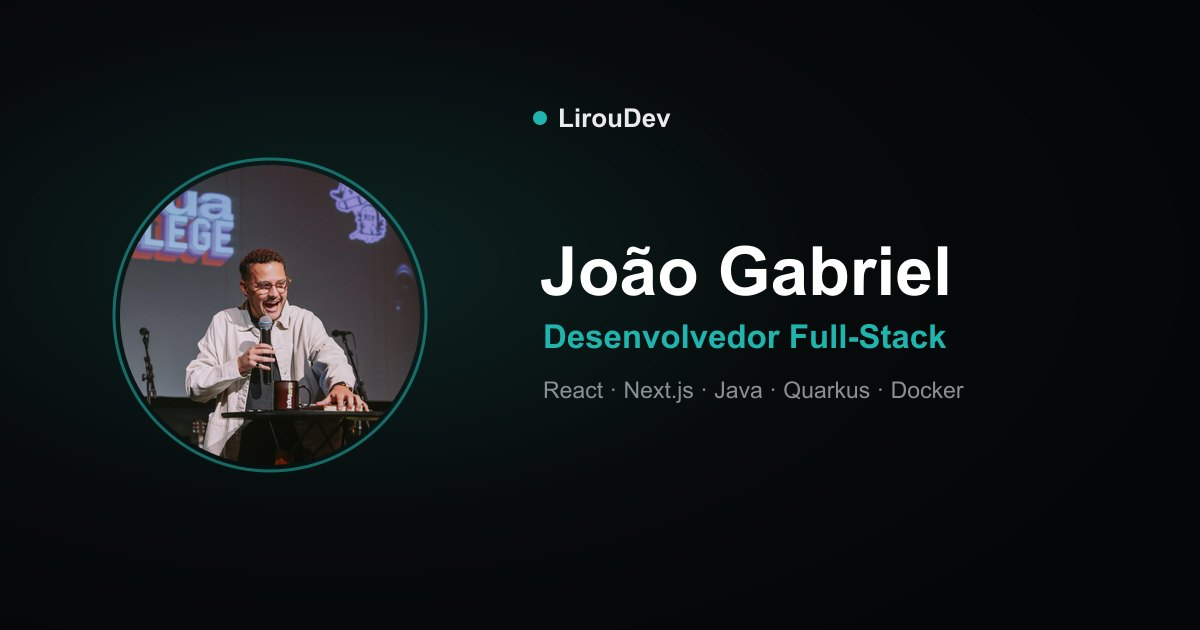
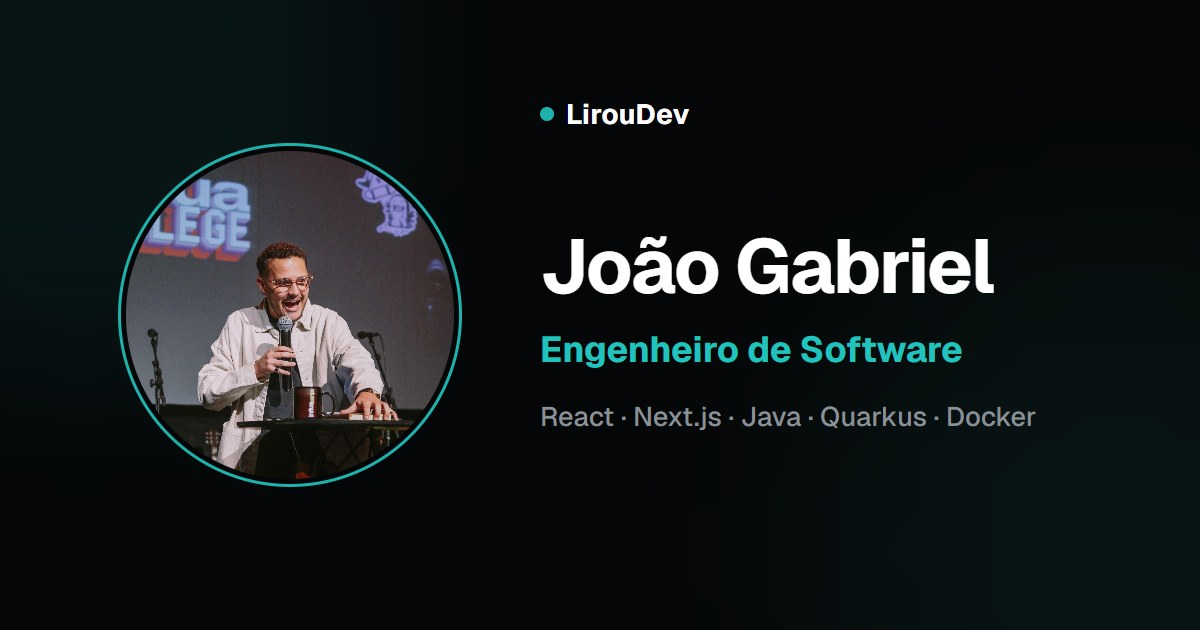
feat(marca): titulo profissional muda para Engenheiro de Software
Hero, Sobre, /links, footer (agora via i18n em vez de hardcoded), meta
tags/JSON-LD do index.html, descricao do /links no prerender e cargos
Twiniti/Titaniumfix na Experiencia. og-image.jpg regenerada com o novo
titulo (mesmo layout).

diff --git a/src/utils/translations.ts b/src/utils/translations.ts
@@ -12,7 +12,7 @@ export const translations = {
             toggleLang: 'English'
         },
         hero: {
-            role: 'Full-Stack Developer',
+            role: 'Engenheiro de Software',
             greeting: 'Olá, meu nome é João Gabriel',
             tagline: 'Transformando ideias em interfaces modernas e funcionais',
             quoteBtn: 'Peça um orçamento',
@@ -22,7 +22,7 @@ export const translations = {
         },
         about: {
             label: 'Sobre',
-            title: 'Full-Stack Developer',
+            title: 'Engenheiro de Software',
             titleSuffix: ' com foco em UX',
             stats: {
                 experience: 'Anos de Experiência',
@@ -53,14 +53,14 @@ export const translations = {
             technologies: 'Tecnologias:',
             list: [
                 {
-                    title: 'Desenvolvedor Full-Stack',
+                    title: 'Engenheiro de Software',
                     company: 'Twiniti',
                     period: 'Mai/2024 - Presente',
                     location: 'Remoto',
                     description: 'Desenvolvimento back-end e full-stack em arquitetura de microserviços com Java, Quarkus e Spring Boot, além da manutenção e evolução de sistemas legados em Delphi. Atuação em diversos projetos com containerização via Docker e uso de IA (Claude Code) como ferramenta de produtividade no dia a dia de desenvolvimento.'
                 },
                 {
-                    title: 'Desenvolvedor de Software',
+                    title: 'Engenheiro de Software',
                     company: 'Titaniumfix',
                     period: 'Jan/2024 - Presente',
                     location: 'São José dos Campos, SP',
@@ -298,7 +298,7 @@ export const translations = {
             }
         },
         links: {
-            role: 'Desenvolvedor Full-Stack',
+            role: 'Engenheiro de Software',
             tagline: 'Transformo ideias em sites e sistemas modernos.',
             portfolio: 'Ver portfólio',
             portfolioDesc: 'Conheça meus projetos e trajetória',
@@ -320,7 +320,7 @@ export const translations = {
             toggleLang: 'Português'
         },
         hero: {
-            role: 'Full-Stack Developer',
+            role: 'Software Engineer',
             greeting: 'Hello, I am João Gabriel',
             tagline: 'Transforming ideas into modern and functional interfaces',
             quoteBtn: 'Request a quote',
@@ -330,7 +330,7 @@ export const translations = {
         },
         about: {
             label: 'About',
-            title: 'Full-Stack Developer',
+            title: 'Software Engineer',
             titleSuffix: ' focused on UX',
             stats: {
                 experience: 'Years of Experience',
@@ -361,14 +361,14 @@ export const translations = {
             technologies: 'Technologies:',
             list: [
                 {
-                    title: 'Full-Stack Developer',
+                    title: 'Software Engineer',
                     company: 'Twiniti',
                     period: 'May/2024 - Present',
                     location: 'Remote',
                     description: 'Back-end and full-stack development in a microservices architecture with Java, Quarkus and Spring Boot, plus maintenance and evolution of legacy systems in Delphi. Working across multiple projects with Docker containerization and AI (Claude Code) as a daily development productivity tool.'
                 },
                 {
-                    title: 'Software Developer',
+                    title: 'Software Engineer',
                     company: 'Titaniumfix',
                     period: 'Jan/2024 - Present',
                     location: 'São José dos Campos, SP',
@@ -606,7 +606,7 @@ export const translations = {
             }
         },
         links: {
-            role: 'Full-Stack Developer',
+            role: 'Software Engineer',
             tagline: 'I turn ideas into modern websites and systems.',
             portfolio: 'View portfolio',
             portfolioDesc: 'See my projects and background',

diff --git a/index.html b/index.html
@@ -6,15 +6,15 @@
     <meta name="viewport" content="width=device-width, initial-scale=1.0" />
     <meta name="theme-color" content="#050607" />
 
-    <title>João Gabriel | Desenvolvedor Full-Stack</title>
-    <meta name="description" content="Desenvolvedor Full-Stack especializado em React, Next.js, Java e Quarkus. Criando soluções web completas e modernas." />
+    <title>João Gabriel | Engenheiro de Software</title>
+    <meta name="description" content="Engenheiro de Software especializado em React, Next.js, Java e Quarkus. Criando soluções web completas e modernas." />
     <meta name="author" content="João Gabriel" />
-    <meta name="keywords" content="desenvolvedor, full-stack, front-end, back-end, react, nextjs, typescript, java, quarkus, portfolio, são josé dos campos" />
+    <meta name="keywords" content="engenheiro de software, desenvolvedor, full-stack, front-end, back-end, react, nextjs, typescript, java, quarkus, portfolio, são josé dos campos" />
     <link rel="canonical" href="https://portfolio-liroudev.vercel.app/" />
 
     <!-- Open Graph (WhatsApp, LinkedIn, Facebook, Instagram) -->
-    <meta property="og:title" content="João Gabriel | Desenvolvedor Full-Stack" />
-    <meta property="og:description" content="Desenvolvedor Full-Stack especializado em React, Next.js, Java e Quarkus. Criando soluções web completas e modernas." />
+    <meta property="og:title" content="João Gabriel | Engenheiro de Software" />
+    <meta property="og:description" content="Engenheiro de Software especializado em React, Next.js, Java e Quarkus. Criando soluções web completas e modernas." />
     <meta property="og:type" content="website" />
     <meta property="og:url" content="https://portfolio-liroudev.vercel.app/" />
     <meta property="og:site_name" content="João Gabriel — LirouDev" />
@@ -22,12 +22,12 @@
     <meta property="og:image" content="https://portfolio-liroudev.vercel.app/og-image.jpg" />
     <meta property="og:image:width" content="1200" />
     <meta property="og:image:height" content="630" />
-    <meta property="og:image:alt" content="João Gabriel — Desenvolvedor Full-Stack" />
+    <meta property="og:image:alt" content="João Gabriel — Engenheiro de Software" />
 
     <!-- Twitter / X -->
     <meta name="twitter:card" content="summary_large_image" />
-    <meta name="twitter:title" content="João Gabriel | Desenvolvedor Full-Stack" />
-    <meta name="twitter:description" content="Desenvolvedor Full-Stack especializado em React, Next.js, Java e Quarkus." />
+    <meta name="twitter:title" content="João Gabriel | Engenheiro de Software" />
+    <meta name="twitter:description" content="Engenheiro de Software especializado em React, Next.js, Java e Quarkus." />
     <meta name="twitter:image" content="https://portfolio-liroudev.vercel.app/og-image.jpg" />
 
     <!-- Structured data (Person) -->
@@ -37,7 +37,7 @@
         "@type": "Person",
         "name": "João Gabriel",
         "alternateName": "LirouDev",
-        "jobTitle": "Desenvolvedor Full-Stack",
+        "jobTitle": "Engenheiro de Software",
         "url": "https://portfolio-liroudev.vercel.app/",
         "image": "https://portfolio-liroudev.vercel.app/og-image.jpg",
         "email": "mailto:jgomachado@hotmail.com",

diff --git a/src/components/Footer.tsx b/src/components/Footer.tsx
@@ -1,8 +1,12 @@
 import { motion } from 'framer-motion';
 import { revealVariants, viewportConfig } from '@/lib/motion';
+import { useLanguage } from '@/contexts/LanguageContext';
+import { translations } from '@/utils/translations';
 
 const Footer = () => {
   const currentYear = new Date().getFullYear();
+  const { language } = useLanguage();
+  const role = translations[language].hero.role;
 
   return (
     <motion.footer
@@ -28,7 +32,7 @@ const Footer = () => {
               <span>&copy; {currentYear}</span>
               <span className="text-foreground">João Gabriel</span>
               <span>&middot;</span>
-              <span>Full-Stack Developer</span>
+              <span>{role}</span>
             </div>
 
             <div className="text-xs text-muted-foreground">
